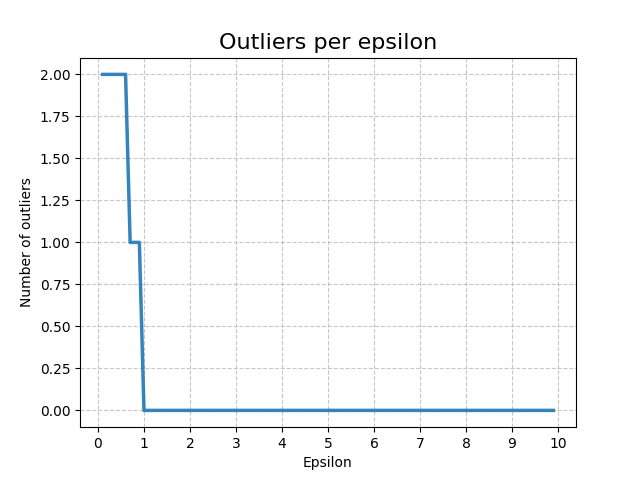
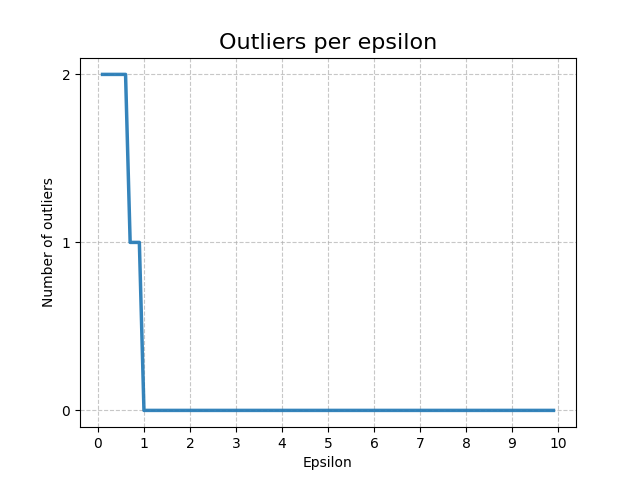
fixes and visuals

diff --git a/dbscan/dbscan.py b/dbscan/dbscan.py
@@ -37,12 +37,16 @@ for dist in range(1, 100, 1):
     
 distances = [i/10 for i in range(1, 100, 1)]
 import plotting_styles as styles
+from matplotlib.ticker import MaxNLocator
+
 styles.apply_global_style()
+
 plt.plot(distances, outlier_cnt, **styles.line_style)
 plt.title("Outliers per epsilon")
 plt.xlabel("Epsilon")
 plt.ylabel("Number of outliers")
 plt.xticks(np.arange(0, 11, 1))
+plt.gca().yaxis.set_major_locator(MaxNLocator(integer=True))
 plt.show()
 
 outlier_cnt = []
@@ -55,6 +59,7 @@ plt.plot(range(1, 100, 1), outlier_cnt, **styles.line_style)
 plt.title("Outliers per minimum samples")
 plt.xlabel("Minimum samples")
 plt.ylabel("Outliers")
+plt.gca().yaxis.set_major_locator(MaxNLocator(integer=True))
 plt.show()
 
 param_grid = {

diff --git a/kNN_approach/new_way_testing.py b/kNN_approach/new_way_testing.py
@@ -17,7 +17,7 @@ there are multiple datasets for testing
 (deviations are derived from it)"""
 
 # TESTING values that are appended to deviations (in this script called dataset)
-dataset.append(1.9)
+#dataset.append(1.9)
 #dataset.append(2.2)
 #dataset.append(0.99)
 '''dataset.append(11)
@@ -46,7 +46,9 @@ for idx, (data, label) in enumerate(zip(dataset, labels)):
     if color_map[label] == 'red':
         outliers.append(idx)
 
-decision_boundary = (clusters[1]-clusters[0])/2 
+decision_boundary = np.mean(clusters)
+
+print(f'Computed decision boundary: {decision_boundary}')
 
 outliers_cycle = {}
 

diff --git a/less-important/OCSVM_outs.py b/less-important/OCSVM_outs.py
@@ -16,8 +16,9 @@ from ready_data import norm_data
 
 def idxs(iterable):
     return [i for i in range(len(iterable))]
+
 start = time.perf_counter()
-svm = OneClassSVM().fit(norm_data)
+svm = OneClassSVM(kernel='sigmoid').fit(norm_data)
 svm.predict(norm_data)
 out_measure = svm.score_samples(norm_data)
 
@@ -30,6 +31,8 @@ plt.plot(range(len(dec)), dec)
 plt.title("Decision function")
 plt.show()
 
+plt.xlabel("Index")
+plt.ylabel("Score")
 plt.title("Outlier score OCSVM")
 plt.scatter(range(len(out_measure)), out_measure, **style.scatter_style)
 style.apply_global_style()

diff --git a/kNN_approach/outliers_sklearn_knn.py b/kNN_approach/outliers_sklearn_knn.py
@@ -21,7 +21,7 @@ import time
 
 start = time.perf_counter()
 
-neigh = NearestNeighbors(n_neighbors=len(norm_data), metric=sigmoid_metric)
+neigh = NearestNeighbors(n_neighbors=len(norm_data))
 #neigh = NearestNeighbors(n_neighbors=len(norm_data)) 
 neigh.fit(norm_data)
 

diff --git a/timer.py b/timer.py
@@ -7,5 +7,3 @@ subprocess.run(["python", "outliers_sklearn_knn.py"], check=True)
 end = time.perf_counter()
 
 print(f"Runtime length: {end - start:.5f}s")
-
-import matplotlib as plt
